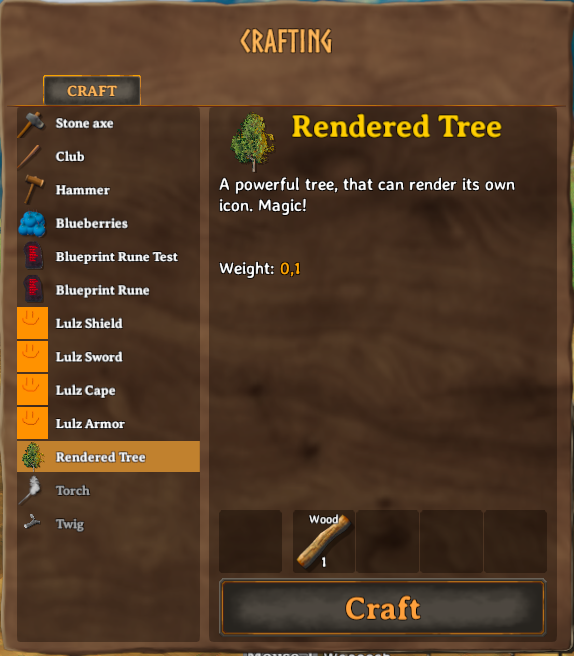
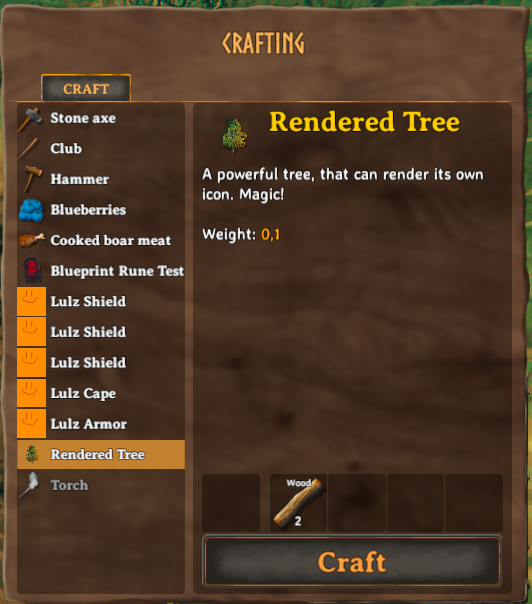
docs: updated render manager tutorial

Changed region(s): [[0.0, 0.0, 1.0, 1.0], [0.3609, 0.8046, 0.391, 0.8344]]

diff --git a/TestMod/TestMod.cs b/TestMod/TestMod.cs
@@ -1330,36 +1330,23 @@ namespace TestMod
         // Create rendered icons from prefabs
         private void AddItemsWithRenderedIcons()
         {
-            try
-            {
-                // use the vanilla beech tree prefab to render our icon from
-                GameObject beech = PrefabManager.Instance.GetPrefab("Beech1");
+            // use the vanilla beech tree prefab to render our icon from
+            GameObject beech = PrefabManager.Instance.GetPrefab("Beech1");
 
-                // create the custom item with the rendered icon
-                CustomItem treeItem = new CustomItem("item_MyTree", "BeechSeeds", new ItemConfig
-                {
-                    Name = "$rendered_tree",
-                    Description = "$rendered_tree_desc",
-                    Icons = new[]
-                    {
-                        RenderManager.Instance.Render(beech)
-                    },
-                    Requirements = new[]
-                    {
-                        new RequirementConfig { Item = "Wood", Amount = 1, Recover = true }
-                    }
-                });
-                ItemManager.Instance.AddItem(treeItem);
-            }
-            catch (Exception ex)
-            {
-                Jotunn.Logger.LogError($"Error while adding item with rendering: {ex}");
-            }
-            finally
-            {
-                // You want that to run only once, Jotunn has the item cached for the game session
-                PrefabManager.OnVanillaPrefabsAvailable -= AddItemsWithRenderedIcons;
-            }
+            // rendered the icon
+            Sprite renderedIcon = RenderManager.Instance.Render(beech, RenderManager.IsometricRotation);
+
+            // create the custom item with the icon
+            ItemConfig treeItemConfig = new ItemConfig();
+            treeItemConfig.Name = "$rendered_tree";
+            treeItemConfig.Description = "$rendered_tree_desc";
+            treeItemConfig.Icons = new Sprite[] { renderedIcon };
+            treeItemConfig.AddRequirement(new RequirementConfig("Wood", 2, 0, true));
+
+            ItemManager.Instance.AddItem(new CustomItem("item_MyTree", "BeechSeeds", treeItemConfig));
+
+            // You want that to run only once, Jotunn has the item cached for the game session
+            PrefabManager.OnVanillaPrefabsAvailable -= AddItemsWithRenderedIcons;
         }
 
         private void AddCustomLocationsAndVegetation()

diff --git a/JotunnLib/Documentation/tutorials/renderqueue.md b/JotunnLib/Documentation/tutorials/renderqueue.md
@@ -1,5 +1,5 @@
-# Render Queue
-Jötunn's [RenderManager](xref:Jotunn.Managers.RenderManager) allows you to pass a GameObject into a Queue and let Jötunn render the visual parts into a Sprite for you.
+# Render Manager
+Jötunn's [RenderManager](xref:Jotunn.Managers.RenderManager) allows you to pass a GameObject and let Jötunn render the visual parts into a Sprite for you.
 
 **Note**: The code snippets are taken from our [example mod](https://github.com/Valheim-Modding/JotunnModExample).
 
@@ -25,36 +25,23 @@ Here we clone the vanilla BeechSeeds to a new [CustomItem](xref:Jotunn.Entities.
 // Create rendered icons from prefabs
 private void AddItemsWithRenderedIcons()
 {
-    try
-    {
-        // use the vanilla beech tree prefab to render our icon from
-        GameObject beech = PrefabManager.Instance.GetPrefab("Beech1");
+    // use the vanilla beech tree prefab to render our icon from
+    GameObject beech = PrefabManager.Instance.GetPrefab("Beech1");
 
-        // create the custom item with the rendered icon
-        CustomItem treeItem = new CustomItem("item_MyTree", "BeechSeeds", new ItemConfig
-        {
-            Name = "$rendered_tree",
-            Description = "$rendered_tree_desc",
-            Icons = new[]
-            {
-                RenderManager.Instance.Render(beech)
-            },
-            Requirements = new[]
-            {
-                new RequirementConfig { Item = "Wood", Amount = 1, Recover = true }
-            }
-        });
-        ItemManager.Instance.AddItem(treeItem);
-    }
-    catch (Exception ex)
-    {
-        Jotunn.Logger.LogError($"Error while adding item with rendering: {ex}");
-    }
-    finally
-    {
-        // You want that to run only once, Jotunn has the item cached for the game session
-        PrefabManager.OnVanillaPrefabsAvailable -= AddItemsWithRenderedIcons;
-    }
+    // rendered the icon
+    Sprite renderedIcon = RenderManager.Instance.Render(beech, RenderManager.IsometricRotation);
+
+    // create the custom item with the icon
+    ItemConfig treeItemConfig = new ItemConfig();
+    treeItemConfig.Name = "$rendered_tree";
+    treeItemConfig.Description = "$rendered_tree_desc";
+    treeItemConfig.Icons = new Sprite[] { renderedIcon };
+    treeItemConfig.AddRequirement(new RequirementConfig("Wood", 2, 0, true));
+
+    ItemManager.Instance.AddItem(new CustomItem("item_MyTree", "BeechSeeds", treeItemConfig));
+
+    // You want that to run only once, Jotunn has the item cached for the game session
+    PrefabManager.OnVanillaPrefabsAvailable -= AddItemsWithRenderedIcons;
 }
 ```
 

diff --git a/JotunnLib/Documentation/tutorials/overview.md b/JotunnLib/Documentation/tutorials/overview.md
@@ -41,6 +41,6 @@ Each section will have examples showing how this is done. All of the examples sh
 * [Bone Reordering](bonereorder.md): Reoder and preserve bone order so player attached objects preserve their position.
 * [Config and Synchronization](config.md): Ensures the synchronization of plugin config files between server and client as well as admin states on dedicated servers.
 * [Network Compatibility](networkcompatibility.md): Make sure that clients are running compatible versions of the plugin and it's assets.
-* [Rendering Queue](renderqueue.md): Create rendered Sprites from GameObjects with visual components at runtime.
+* [Rendering](renderqueue.md): Create rendered Sprites from GameObjects with visual components at runtime.
 * [RPCs](rpcs.md): Add Client/Server process communications and transfer data with automatic slicing and compression.
 * [JSON](https://github.com/mhallin/SimpleJSON.NET): JVL integrates the MIT licensed SimpleJSON, accessible via its namespace.
